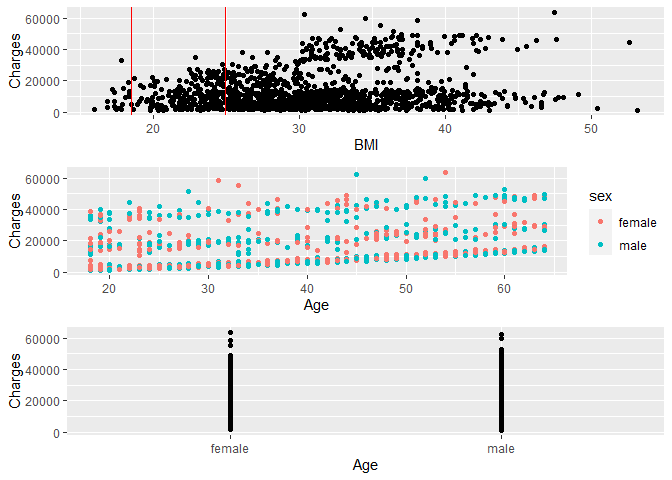
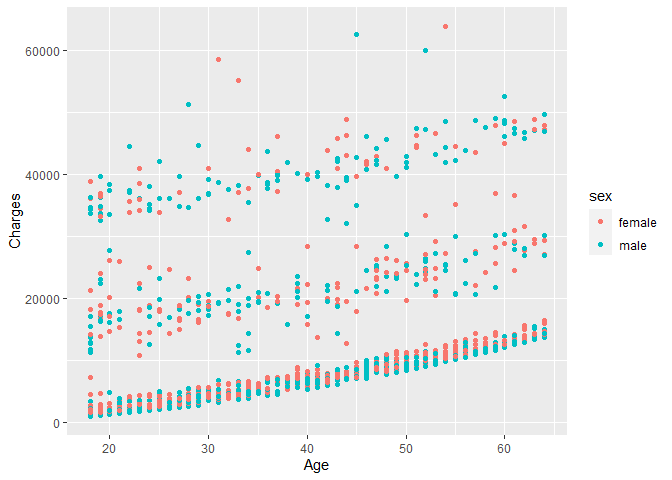
Finally the plots are showing

diff --git a/R/visual.md b/R/visual.md
@@ -1,33 +1,15 @@
 R Notebook for visualisations
 ================
 
--   [Including Plots](#including-plots)
--   [Data extraction, transformation and loading](#data-extraction-transformation-and-loading)
-    -   [Packages loaded](#packages-loaded)
-    -   [Data loading](#data-loading)
+-   [Data loading](#data-loading)
 -   [Visualization](#visualization)
 
 This is an R Markdown document. Markdown is a simple formatting syntax for authoring HTML, PDF, and MS Word documents. For more details on using R Markdown see <http://rmarkdown.rstudio.com>.
 
 When you click the **Knit** button a document will be generated that includes both content as well as the output of any embedded R code chunks within the document. You can embed an R code chunk like this:
 
-Including Plots
----------------
-
-You can also embed plots, for example:
-
-![](visual_files/figure-markdown_github/pressure-1.png)
-
-Note that the `echo = FALSE` parameter was added to the code chunk to prevent printing of the R code that generated the plot.
-
-Data extraction, transformation and loading
-===========================================
-
-Packages loaded
----------------
-
 Data loading
-------------
+============
 
 ``` r
 insurance = read.csv("c:/users/denat/ProjectBiBC/Data/insurance.csv")
@@ -49,19 +31,22 @@ Visualization
 library(ggplot2)
 library(gridExtra)
 
-bmi_plot = qplot(bmi, charges, data = insurance, xlab = "BMI", ylab = "Charges") + geom_vline(xintercept = 18.5, color = "red") + geom_vline(xintercept = 24.9, color = "red")
+(bmi_plot = qplot(bmi, charges, data = insurance, xlab = "BMI", ylab = "Charges") + geom_vline(xintercept = 18.5, color = "red") + geom_vline(xintercept = 24.9, color = "red"))
 ```
 
-![](visual_files/figure-markdown_github/bmi_plot-1.png)
+![](visual_files/figure-markdown_github/unnamed-chunk-1-1.png)
 
 ``` r
-age_plot = qplot(age, charges, data = insurance, xlab = "Age", ylab = "Charges", col = sex)
-sex_plot = qplot(sex, charges, data = insurance, xlab = "Age", ylab = "Charges")
-
-plot1 = grid.arrange(bmi_plot, age_plot, sex_plot, ncol=1 )
+(age_plot = qplot(age, charges, data = insurance, xlab = "Age", ylab = "Charges", col = sex))
 ```
 
 ![](visual_files/figure-markdown_github/unnamed-chunk-2-1.png)
+
+``` r
+(sex_plot = qplot(sex, charges, data = insurance, xlab = "Age", ylab = "Charges"))
+```
+
+![](visual_files/figure-markdown_github/unnamed-chunk-3-1.png)
 
 ``` r
 sex_boxplot = ggplot(insurance, aes(x=sex, y=charges)) + geom_boxplot()
@@ -72,4 +57,4 @@ smoker_boxplot = ggplot(insurance, aes(x=smoker, y=charges)) + geom_boxplot()
 grid.arrange(children_boxplot, sex_boxplot, smoker_boxplot, region_boxplot, ncol=2 )
 ```
 
-![](visual_files/figure-markdown_github/unnamed-chunk-3-1.png)
+![](visual_files/figure-markdown_github/unnamed-chunk-4-1.png)
